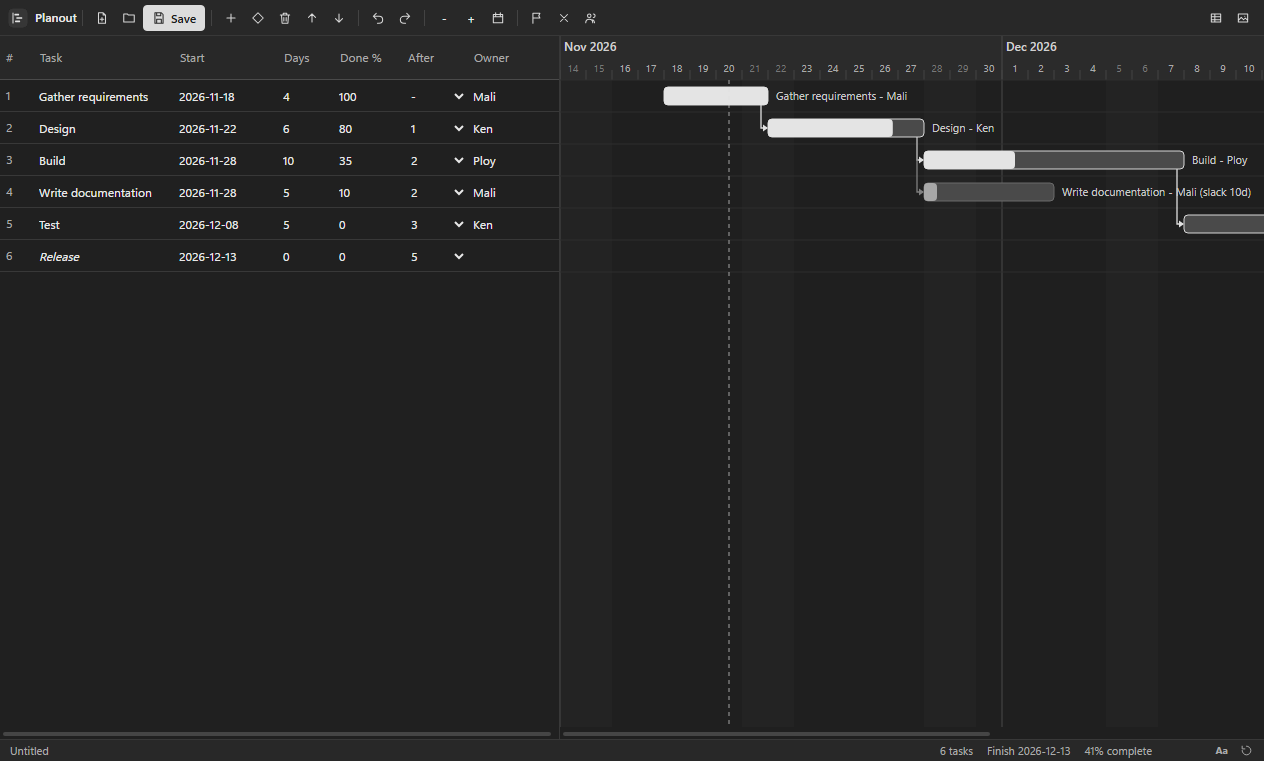
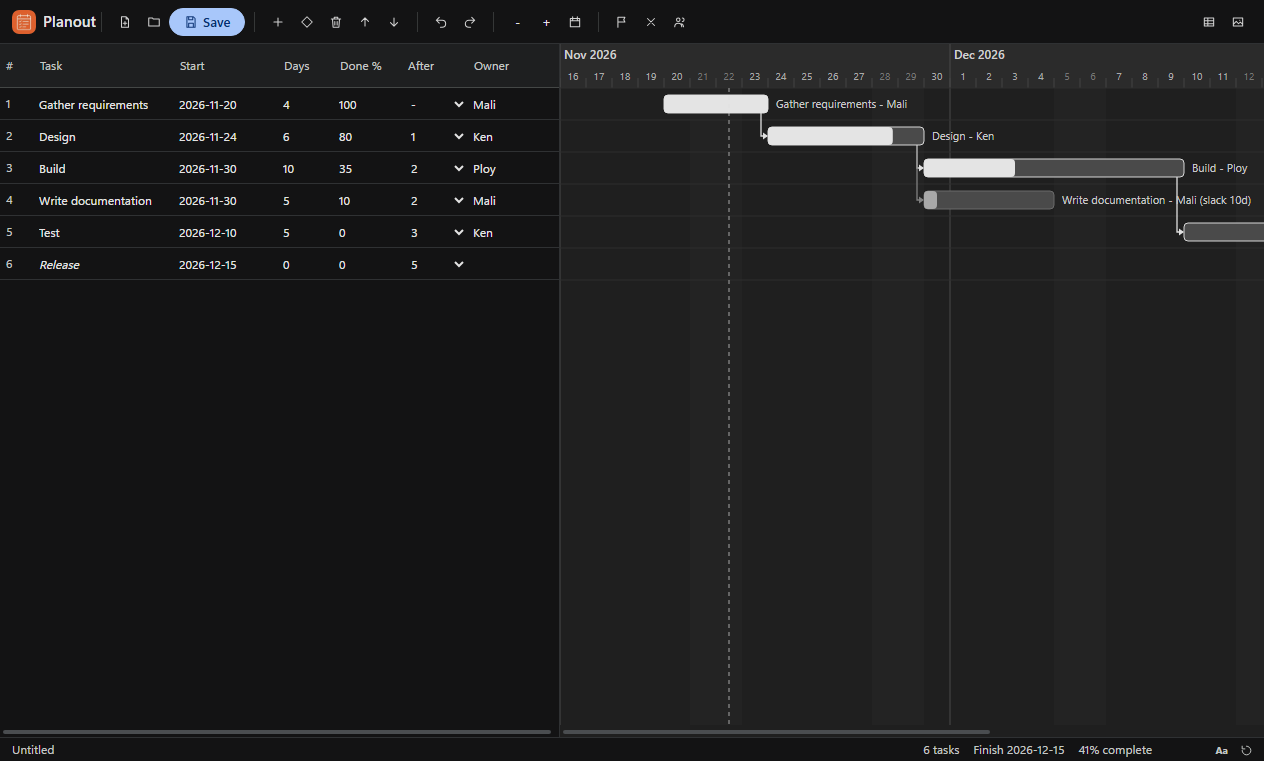
fix: Planout 1.0.14
New Google-style look: charcoal theme, pill buttons, blue accent, colour app logo. Refreshed README and screenshots.

diff --git a/renderer/lookout.css b/renderer/lookout.css
@@ -1,68 +1,69 @@
-/* Lookout gray UI kit v3: compact pro workspace, flat, no hue. Shared by every Lookout app. */
+/* Lookout UI kit v4: Google-style dark (AI Studio / Colab / Gemini): soft surfaces, pill buttons, blue accent. Shared by every Lookout app. */
 :root{
-  --bg:#202020; --bg-2:#282828; --bg-3:#303030; --bg-4:#3a3a3a; --stage:#181818;
-  --line:#383838; --line-2:#4a4a4a; --line-3:#5c5c5c;
-  --text:#e8e8e8; --text-2:#ababab; --text-3:#9a9a9a;
-  --accent:#dcdcdc; --accent-ink:#1b1b1b; --focus:#a0a0a0;
-  --radius:4px; --h:26px; --pad:8px;
-  --font:"Segoe UI Variable Text","Segoe UI",system-ui,-apple-system,sans-serif; --mono:Consolas,"Cascadia Mono",monospace;
+  --bg:#131314; --bg-2:#1e1f20; --bg-3:#282a2c; --bg-4:#333537; --stage:#0e0e0f;
+  --line:#2f3133; --line-2:#444746; --line-3:#5f6368;
+  --text:#e3e3e3; --text-2:#c4c7c5; --text-3:#9aa0a6;
+  --accent:#a8c7fa; --accent-ink:#062e6f; --accent-2:#0b57d0; --accent-soft:#2b3a55; --focus:#a8c7fa;
+  --radius:8px; --h:28px; --pad:10px;
+  --font:"Google Sans Text","Google Sans",Roboto,"Segoe UI Variable Text","Segoe UI",system-ui,-apple-system,sans-serif; --mono:Consolas,"Cascadia Mono",monospace;
 }
 *{box-sizing:border-box;margin:0;padding:0}
-html,body{height:100%;background:var(--bg);color:var(--text);font:12px/1.4 var(--font);overflow:hidden;user-select:none;-webkit-font-smoothing:antialiased}
+html,body{height:100%;background:var(--bg);color:var(--text);font:13px/1.45 var(--font);overflow:hidden;user-select:none;-webkit-font-smoothing:antialiased}
 button,input,select,textarea{font:inherit;color:inherit}
 .app{display:grid;grid-template-rows:auto 1fr auto;height:100vh}
 
 /* ---------- toolbar ---------- */
-.toolbar{display:flex;align-items:center;gap:1px;padding:4px 8px;min-height:36px;background:var(--bg-2);border-bottom:1px solid var(--line);flex-wrap:nowrap;overflow-x:auto;overflow-y:hidden;scrollbar-width:none}
+.toolbar{display:flex;align-items:center;gap:1px;padding:6px 12px;min-height:44px;background:var(--bg);border-bottom:1px solid var(--line);flex-wrap:nowrap;overflow-x:auto;overflow-y:hidden;scrollbar-width:none}
 .toolbar::-webkit-scrollbar{height:0}
 .toolbar>*{flex-shrink:0}
-.toolbar .sep{width:1px;height:16px;align-self:center;background:var(--line-2);margin:0 5px;opacity:.8}
+.toolbar .sep{width:1px;height:20px;align-self:center;background:var(--line-2);margin:0 8px;opacity:.7}
 .toolbar .grow{flex:1 1 auto;min-width:8px}
 .toolbar input[type=text],.toolbar input[type=search]{width:150px}
-.brand{display:flex;align-items:center;gap:7px;padding-right:2px;margin-right:2px;font-weight:600;font-size:12px;color:var(--text)}
-.brand img{width:20px;height:20px;border-radius:5px;display:block}
+.brand{display:flex;align-items:center;gap:7px;padding-right:2px;margin-right:2px;font-weight:500;font-size:15px;letter-spacing:.1px;color:var(--text)}
+.brand img{width:24px;height:24px;border-radius:7px;display:block}
 .brand+.sep{margin-left:0}
 
 /* ---------- buttons ---------- */
-.btn{display:inline-flex;align-items:center;justify-content:center;gap:5px;height:var(--h);padding:0 8px;background:var(--bg-3);border:1px solid var(--line);border-radius:var(--radius);cursor:pointer;white-space:nowrap;line-height:1;transition:background .08s,border-color .08s}
-.btn:hover{background:var(--bg-4);border-color:var(--line-2)}
-.btn:active{background:#262626}
+.btn{display:inline-flex;align-items:center;justify-content:center;gap:5px;height:var(--h);padding:0 14px;background:var(--bg-3);border:1px solid transparent;border-radius:999px;cursor:pointer;white-space:nowrap;line-height:1;transition:background .08s,border-color .08s}
+.btn:hover{background:var(--bg-4)}
+.btn:active{background:#3c3f41}
 .btn:focus-visible,input:focus-visible,select:focus-visible,textarea:focus-visible,[tabindex]:focus-visible{outline:2px solid var(--focus);outline-offset:1px}
-.btn.primary{background:var(--accent);color:var(--accent-ink);border-color:var(--accent);font-weight:600}
-.btn.primary:hover{background:#ececec;border-color:#ececec}
-.btn.on{background:#4a4a4a;border-color:var(--line-3);box-shadow:inset 0 0 0 1px #6a6a6a}
+.btn.primary{background:var(--accent);color:var(--accent-ink);border-color:var(--accent);font-weight:500}
+.btn.primary:hover{background:#c2d7fb;border-color:#c2d7fb;box-shadow:0 1px 3px rgba(0,0,0,.4)}
+.btn.on{background:var(--accent-soft);color:var(--accent);border-color:transparent}
 .btn[disabled]{opacity:.45;pointer-events:none}
-.btn.icon{padding:0;width:var(--h);min-width:var(--h)}
+.btn.icon{padding:0;width:var(--h);min-width:var(--h);border-radius:50%}
 .btn .ic{width:14px;height:14px;flex-shrink:0;display:block;opacity:.92}
 .toolbar .btn:not(.primary):not(.on){background:transparent;border-color:transparent}
-.toolbar .btn:not(.primary):not(.on):hover{background:var(--bg-4);border-color:var(--line-2)}
+.toolbar .btn:not(.primary):not(.on):hover{background:var(--bg-3);border-color:transparent}
 
 /* icon-only toolbar: names live in the tooltip (Aa in the status bar brings the labels back) */
-.toolbar:not(.lbl) .btn:not(.primary):has(> svg.ic),.toolbar.c3 .btn:has(> svg.ic){font-size:0;gap:0;width:var(--h);padding:0}
+.toolbar:not(.lbl) .btn:not(.primary):has(> svg.ic),.toolbar.c3 .btn:has(> svg.ic){font-size:0;gap:0;width:var(--h);padding:0;border-radius:50%}
 .toolbar.c2 .brand span{display:none}
 .toolbar.c2 input[type=text],.toolbar.c2 input[type=search]{width:110px}
 .toolbar.lbl.c1 .btn.minor:not(.primary):has(> svg.ic),.toolbar.lbl.c2 .btn:not(.primary):has(> svg.ic){font-size:0;gap:0;width:var(--h);padding:0}
 
 /* ---------- fields ---------- */
-input[type=text],input[type=number],input[type=search],input[type=date],select,textarea{background:var(--bg);border:1px solid var(--line-2);border-radius:var(--radius);padding:0 7px;height:var(--h);user-select:text;min-width:0;font-size:12px}
+input[type=text],input[type=number],input[type=search],input[type=date],select,textarea{background:var(--bg-3);border:1px solid transparent;border-radius:var(--radius);padding:0 10px;height:var(--h);user-select:text;min-width:0;font-size:13px}
 input[type=number],.frow>input,.field>input{font-variant-numeric:tabular-nums}
 textarea{height:auto;padding:5px 7px;resize:vertical;line-height:1.4}
 select{padding-right:4px;cursor:pointer}
-input:hover,select:hover,textarea:hover{border-color:var(--line-3)}
-input[type=range]{accent-color:#c8c8c8;height:var(--h)}
-input[type=checkbox]{accent-color:#c8c8c8;width:14px;height:14px;cursor:pointer}
-input[type=color]{border:1px solid var(--line-2);background:var(--bg);width:26px;height:var(--h);padding:2px;border-radius:var(--radius)}
-label.field{display:flex;flex-direction:column;gap:3px;color:var(--text-2);font-size:11px}
-label.field>input,label.field>select,label.field>textarea{width:100%;color:var(--text);font-size:12px}
+input:hover,select:hover,textarea:hover{background:var(--bg-4)}
+input[type=text]:focus,input[type=number]:focus,input[type=search]:focus,input[type=date]:focus,select:focus,textarea:focus{outline:none;border-color:var(--accent);background:var(--bg-2)}
+input[type=range]{accent-color:#a8c7fa;height:var(--h)}
+input[type=checkbox]{accent-color:#a8c7fa;width:14px;height:14px;cursor:pointer}
+input[type=color]{border:1px solid var(--line-2);background:var(--bg-3);width:26px;height:var(--h);padding:2px;border-radius:var(--radius)}
+label.field{display:flex;flex-direction:column;gap:3px;color:var(--text-2);font-size:12px}
+label.field>input,label.field>select,label.field>textarea{width:100%;color:var(--text);font-size:13px}
 
 /* ---------- layout ---------- */
 .main{display:flex;min-height:0;min-width:0}
-.sidebar{width:210px;background:var(--bg-2);border-right:1px solid var(--line);overflow:auto;padding:var(--pad);flex-shrink:0;min-width:0}
+.sidebar{width:210px;background:var(--bg);border-right:1px solid var(--line);overflow:auto;padding:var(--pad);flex-shrink:0;min-width:0}
 .sidebar.right{border-right:0;border-left:1px solid var(--line);width:250px}
 .sidebar.collapsed{display:none!important}
-.sidebar h3,.panel-title{font-size:10px;text-transform:uppercase;letter-spacing:.09em;color:var(--text-3);font-weight:600}
+.sidebar h3,.panel-title{font-size:12px;letter-spacing:.2px;color:var(--text-2);font-weight:500}
 .sidebar h3{margin:12px 0 6px}
-.sidebar>h3{display:flex;align-items:center;gap:6px;height:22px;margin:10px calc(var(--pad) * -1) 8px;padding:0 var(--pad);background:var(--bg-3);border-top:1px solid var(--line);border-bottom:1px solid var(--line)}
+.sidebar>h3{display:flex;align-items:center;gap:6px;height:30px;margin:10px calc(var(--pad) * -1) 8px;padding:0 var(--pad);background:var(--bg-2);border-top:1px solid var(--line);border-bottom:1px solid var(--line);color:var(--text)}
 .sidebar>h3:first-child{margin-top:calc(var(--pad) * -1);border-top:0}
 .panel-title{margin:12px 0 6px}
 .sidebar input[type=text],.sidebar input[type=search],.sidebar select,.sidebar textarea{width:100%}
@@ -73,20 +74,20 @@ label.field>input,label.field>select,label.field>textarea{width:100%;color:var(-
 .sidebar .btn{width:auto}
 .sidebar>.btn{width:100%;margin-bottom:5px}
 .stage{flex:1;min-width:0;min-height:0;position:relative;background:var(--stage);overflow:auto}
-.status{display:flex;gap:14px;align-items:center;height:22px;padding:0 10px;background:var(--bg-2);border-top:1px solid var(--line);color:var(--text-2);font-size:11px;white-space:nowrap;overflow:hidden}
+.status{display:flex;gap:14px;align-items:center;height:24px;padding:0 12px;background:var(--bg);border-top:1px solid var(--line);color:var(--text-2);font-size:12px;white-space:nowrap;overflow:hidden}
 .status .grow{flex:1}
 body.hasdock .status{padding-right:112px}
-.wbs{position:fixed;right:6px;bottom:2px;height:18px;display:flex;gap:2px;z-index:8;background:var(--bg-2);padding-left:6px}
+.wbs{position:fixed;right:6px;bottom:2px;height:18px;display:flex;gap:2px;z-index:8;background:var(--bg);padding-left:6px}
 .wbs[hidden]{display:none}
-.wbs .wb{height:18px;min-width:22px;padding:0 4px;display:inline-flex;align-items:center;justify-content:center;font-size:10px;font-weight:700;line-height:1;background:transparent;border:1px solid transparent;border-radius:3px;color:var(--text-2);cursor:pointer}
+.wbs .wb{height:18px;min-width:22px;padding:0 4px;display:inline-flex;align-items:center;justify-content:center;font-size:10px;font-weight:700;line-height:1;background:transparent;border:1px solid transparent;border-radius:6px;color:var(--text-2);cursor:pointer}
 .wbs .wb[hidden]{display:none}
 .wbs .wb svg{width:13px;height:13px;display:block}
-.wbs .wb:hover{background:var(--bg-4);border-color:var(--line-2);color:var(--text)}
-.wbs .wb.on{background:var(--bg-4);border-color:var(--line-3);color:var(--text)}
+.wbs .wb:hover{background:var(--bg-3);color:var(--text)}
+.wbs .wb.on{background:var(--accent-soft);color:var(--accent)}
 .list{display:flex;flex-direction:column;gap:1px}
-.list .item{padding:3px 6px;border-radius:var(--radius);cursor:pointer;border:1px solid transparent;display:flex;gap:6px;align-items:center;min-height:26px}
+.list .item{padding:3px 10px;border-radius:999px;cursor:pointer;border:1px solid transparent;display:flex;gap:6px;align-items:center;min-height:26px}
 .list .item:hover{background:var(--bg-3)}
-.list .item.sel{background:var(--bg-4);border-color:var(--line-2)}
+.list .item.sel{background:var(--accent-soft);color:var(--accent);border-color:transparent}
 .row{display:flex;gap:5px;align-items:center}
 .grow{flex:1 1 auto;min-width:0}
 .brow{display:grid;grid-template-columns:1fr 1fr;gap:5px;margin-bottom:5px}
@@ -99,17 +100,17 @@ body.hasdock .status{padding-right:112px}
 .sidebar .swatches{margin-bottom:8px}
 .list .item .btn{height:22px!important;width:24px!important;padding:0!important;font-size:0!important;gap:0;background:transparent;border-color:transparent;opacity:.55}
 .list .item:hover .btn,.list .item.sel .btn{opacity:1}
-.list .item .btn:hover{background:var(--bg-4);border-color:var(--line-2)}
+.list .item .btn:hover{background:var(--bg-4)}
 .col{display:flex;flex-direction:column;gap:5px}
 .muted{color:var(--text-2)}
 .empty{position:absolute;inset:0;display:flex;flex-direction:column;align-items:center;justify-content:center;gap:10px;color:var(--text-3);text-align:center;padding:24px}
-.empty .big{font-size:16px;color:var(--text-2);font-weight:600}
+.empty .big{font-size:20px;color:var(--text);font-weight:400}
 
 /* panel grip: drag to resize, double-click to collapse or restore */
 .grip{position:relative;flex:0 0 5px;width:5px;margin:0 -3px 0 -2px;z-index:6;cursor:col-resize;touch-action:none}
 .grip::after{content:"";position:absolute;top:0;bottom:0;left:2px;width:1px;background:transparent;transition:background .1s}
-.grip:hover::after,.grip.drag::after{background:var(--line-3);width:2px;left:1px}
-.grip.collapsed{flex:0 0 8px;width:8px;margin:0;background:var(--bg-2);border-left:1px solid var(--line);border-right:1px solid var(--line)}
+.grip:hover::after,.grip.drag::after{background:var(--accent);width:2px;left:1px}
+.grip.collapsed{flex:0 0 8px;width:8px;margin:0;background:var(--bg);border-left:1px solid var(--line);border-right:1px solid var(--line)}
 .grip.collapsed::after{left:3px;top:calc(50% - 14px);bottom:auto;height:28px;width:2px;background:var(--line-3);border-radius:2px}
 .grip.collapsed:hover{background:var(--bg-3)}
 body.gripping{cursor:col-resize}
@@ -117,30 +118,30 @@ body.gripping *{cursor:col-resize!important;user-select:none!important}
 
 /* ---------- overlays ---------- */
 .modal-back{position:fixed;inset:0;background:rgba(0,0,0,.6);display:flex;align-items:center;justify-content:center;z-index:50}
-.modal{background:var(--bg-2);border:1px solid var(--line-2);border-radius:8px;min-width:340px;max-width:80vw;max-height:85vh;overflow:auto;padding:16px;display:flex;flex-direction:column;gap:12px;box-shadow:0 18px 50px rgba(0,0,0,.5)}
-.modal h2{font-size:14px;font-weight:600}
-.toast{position:fixed;left:50%;bottom:34px;transform:translateX(-50%);background:var(--bg-4);border:1px solid var(--line-3);padding:7px 14px;border-radius:6px;z-index:60;box-shadow:0 8px 24px rgba(0,0,0,.4)}
-.progress{height:5px;background:var(--bg);border:1px solid var(--line);border-radius:4px;overflow:hidden}
+.modal{background:var(--bg-2);border:0;border-radius:24px;min-width:360px;max-width:80vw;max-height:85vh;overflow:auto;padding:24px;display:flex;flex-direction:column;gap:14px;box-shadow:0 8px 32px rgba(0,0,0,.6)}
+.modal h2{font-size:20px;font-weight:400}
+.toast{position:fixed;left:50%;bottom:34px;transform:translateX(-50%);background:#e3e3e3;color:#1f1f1f;border:0;padding:10px 18px;border-radius:8px;z-index:60;box-shadow:0 8px 24px rgba(0,0,0,.4)}
+.progress{height:6px;background:var(--bg-3);border:0;border-radius:999px;overflow:hidden}
 .progress>i,.progress>div{display:block;height:100%;background:var(--accent);width:0}
 
 /* ---------- tables ---------- */
 table.grid{border-collapse:separate;border-spacing:0;width:100%}
 table.grid th,table.grid td{border-bottom:1px solid var(--line);padding:0 10px;height:30px;text-align:left;vertical-align:middle}
-table.grid th{background:var(--bg-2);color:var(--text-2);font-weight:600;font-size:11px;position:sticky;top:0;z-index:1;height:26px}
-table.grid tbody tr:hover td{background:#242424}
-table.grid tr.sel td{background:#323232}
+table.grid th{background:var(--bg-2);color:var(--text-2);font-weight:500;font-size:12px;position:sticky;top:0;z-index:1;height:26px}
+table.grid tbody tr:hover td{background:var(--bg-2)}
+table.grid tr.sel td{background:var(--accent-soft)}
 table.grid tbody tr{cursor:default}
 table.grid td .btn{height:22px;margin-left:6px;vertical-align:middle}
 table.grid td{white-space:nowrap}
 
 /* ---------- misc ---------- */
 ::-webkit-scrollbar{width:10px;height:10px}
-::-webkit-scrollbar-thumb{background:#454545;border:3px solid transparent;background-clip:padding-box;border-radius:8px}
-::-webkit-scrollbar-thumb:hover{background:#5a5a5a;background-clip:padding-box;border:3px solid transparent}
+::-webkit-scrollbar-thumb{background:#4a4d50;border:3px solid transparent;background-clip:padding-box;border-radius:8px}
+::-webkit-scrollbar-thumb:hover{background:#6b6f73;background-clip:padding-box;border:3px solid transparent}
 ::-webkit-scrollbar-track,::-webkit-scrollbar-corner{background:transparent}
 .swatches{display:flex;flex-wrap:wrap;gap:5px}
-.swatches button{width:20px;height:20px;border:1px solid var(--line-3);border-radius:4px;cursor:pointer;padding:0}
+.swatches button{width:22px;height:22px;border:1px solid var(--line-3);border-radius:50%;cursor:pointer;padding:0}
 .swatches button.on{outline:2px solid var(--accent);outline-offset:2px}
-kbd{font-family:var(--mono);font-size:10px;background:var(--bg-3);border:1px solid var(--line-2);border-bottom-width:2px;border-radius:3px;padding:0 4px}
+kbd{font-family:var(--mono);font-size:10px;background:var(--bg-3);border:1px solid var(--line-2);border-bottom-width:2px;border-radius:4px;padding:0 5px}
 
 input::placeholder,textarea::placeholder{color:var(--text-3);opacity:1}

diff --git a/README.md b/README.md
@@ -1,8 +1,10 @@
-<p align="center"><img src="screenshots/banner.png" alt="Planout" width="100%"></p>
+<p align="center"><img src="screenshots/logo.png" alt="Planout" width="128"></p>
 
-<p align="center"><b>Plans and Gantt timelines</b><br>Version 1.0.2 for Windows · Free · Offline · No account</p>
+<h1 align="center">Planout</h1>
 
-<p align="center"><a href="https://github.com/plawanpawin-byte/planout/releases/latest"><b>Download Planout</b></a> · <a href="https://github.com/plawanpawin-byte/Lookout">All Lookout apps</a></p>
+<p align="center"><b>Plans and Gantt timelines</b><br>Version 1.0.14 for Windows · Free · Offline · No account</p>
+
+<p align="center"><a href="https://github.com/plawanpawin-byte/planout/releases/latest"><b>Download Planout</b></a> · <a href="https://github.com/plawanpawin-byte/lookout-launcher">Lookout launcher</a> · <a href="https://github.com/plawanpawin-byte/Lookout">All Lookout apps</a></p>
 
 ---
 
@@ -12,11 +14,51 @@ Planout turns a list of tasks into a project plan. Give each task a start date, 
 
 ![Planout](screenshots/01-gantt-plan.png)
 
-**On this page:** [Screenshots](#see-it-in-action) · [Interface](#the-interface) · [Features](#everything-it-can-do) · [How to use it](#how-to-use-it) · [Shortcuts](#keyboard-shortcuts) · [Formats](#files-and-formats) · [Privacy](#private-by-design) · [Install](#install) · [Questions](#questions)
+**On this page:** [In plain words](#in-plain-words) · [Who it is for](#who-it-is-for) · [Try it in 3 steps](#try-it-in-3-steps) · [Screenshots](#see-it-in-action) · [Features](#everything-it-can-do) · [How to use it](#how-to-use-it) · [Privacy](#private-by-design) · [Install](#install) · [Questions](#questions)
 
-## What is new in 1.0.2
+## In plain words
 
-A refreshed interface: every toolbar button now has a clear line icon, the app's mark sits at the top left, controls share one height and spacing, panels line up in tidy grids, and the toolbar keeps every button reachable on smaller windows by switching less important buttons to icons.
+Planout is a **project planner**. You write a list of tasks, give each one a start date, a length in days and an owner, and Planout draws them as horizontal bars on a **Gantt timeline**, the standard chart that project managers use to see what happens when.
+
+The useful part is **dependencies**. If task B cannot start until task A is finished, you link them. When A slips by two days, B and everything after it move automatically. You can also add **milestones** (important dates such as "Launch"), see a summary of the whole plan, and export the timeline as a picture or the task list as a CSV file that opens in Excel.
+
+**Not for:** Planout plans tasks and dates. It does not track budgets, hours worked or file attachments, and it does not sync between people.
+
+## Who it is for
+
+- **Project managers** and team leads who need a simple plan without a heavy tool.
+- **Small businesses** scheduling a launch, an event or a renovation.
+- **Students** planning a group project or a thesis.
+
+## Try it in 3 steps
+
+1. Add three tasks. Give them lengths and an owner.
+2. Link the second task to the first as a dependency and watch the bar move.
+3. Export the timeline image and share it with your team.
+
+## What is new in 1.0.14
+
+A new look inspired by Google's own tools (AI Studio, Colab, Gemini): a calm dark charcoal theme, rounded pill buttons, a soft blue accent and roomier spacing. The app icon is now a colour logo so you can find Planout at a glance in the Start menu and in the Lookout launcher. All screenshots below were taken again with the new look.
+
+## In plain words
+
+Planout is a **project planner**. You write a list of tasks, give each one a start date, a length in days and an owner, and Planout draws them as horizontal bars on a **Gantt timeline**, the standard chart that project managers use to see what happens when.
+
+The useful part is **dependencies**. If task B cannot start until task A is finished, you link them. When A slips by two days, B and everything after it move automatically. You can also add **milestones** (important dates such as "Launch"), see a summary of the whole plan, and export the timeline as a picture or the task list as a CSV file that opens in Excel.
+
+**Not for:** Planout plans tasks and dates. It does not track budgets, hours worked or file attachments, and it does not sync between people.
+
+## Who it is for
+
+- **Project managers** and team leads who need a simple plan without a heavy tool.
+- **Small businesses** scheduling a launch, an event or a renovation.
+- **Students** planning a group project or a thesis.
+
+## Try it in 3 steps
+
+1. Add three tasks. Give them lengths and an owner.
+2. Link the second task to the first as a dependency and watch the bar move.
+3. Export the timeline image and share it with your team.
 
 ## See it in action
 
@@ -116,7 +158,7 @@ Saves .planout files. Exports PNG and CSV. Dates are written year-month-day, for
 
 ## Install
 
-1. Open the [latest release](https://github.com/plawanpawin-byte/planout/releases/latest) and download the file named **Planout-Setup-** followed by the version number and **.exe**. You can also install it from the [Lookout launcher](https://github.com/${OWNER}/lookout-launcher), which keeps it up to date.
+1. Open the [latest release](https://github.com/plawanpawin-byte/planout/releases/latest) and download the file named **Planout-Setup-** followed by the version number and **.exe**. You can also install it from the [Lookout launcher](https://github.com/plawanpawin-byte/lookout-launcher), which keeps it up to date.
 2. Run the installer. It installs just for you, so it does not ask for administrator rights.
 3. Windows may show a blue **Windows protected your PC** screen because these installers are not signed with a paid certificate. Click **More info**, then **Run anyway**.
 4. Open Planout from the Start menu.
@@ -131,18 +173,40 @@ Not yet. Durations are counted in calendar days.
 **Can two people edit one plan?**  
 Share the .planout file. There is no live co-editing because nothing goes online.
 
+**What is a Gantt chart?**  
+A chart with tasks listed down the side and a calendar across the top. Each task is a bar from its start to its end.
+
+**What happens when I change a date?**  
+Any task that depends on it moves too, so the whole plan stays consistent.
+
+**Can I open the plan in Excel?**  
+Yes. Export the CSV and open it in Excel or any spreadsheet program.
+
+**What is a Gantt chart?**  
+A chart with tasks listed down the side and a calendar across the top. Each task is a bar from its start to its end.
+
+**What happens when I change a date?**  
+Any task that depends on it moves too, so the whole plan stays consistent.
+
+**Can I open the plan in Excel?**  
+Yes. Export the CSV and open it in Excel or any spreadsheet program.
+
 ## About Lookout
 
-Planout belongs to the **[Lookout](https://github.com/plawanpawin-byte/Lookout)** family: ten small, private Windows apps for documents and media, all with the same calm grey look and the same promise that your files stay yours. Install and update them together with the [Lookout launcher](https://github.com/plawanpawin-byte/lookout-launcher).
+Planout is part of **[Lookout](https://github.com/plawanpawin-byte/Lookout)**: ten small, private Windows apps for documents and media that share one look and one promise, that your files stay on your computer. Install and update them together with the [Lookout launcher](https://github.com/plawanpawin-byte/lookout-launcher).
 
-- **[Pageout](https://github.com/plawanpawin-byte/pageout)**: read, annotate and sign pdfs
-- **[Chartout](https://github.com/plawanpawin-byte/chartout)**: flowcharts and diagrams
-- **[Branchout](https://github.com/plawanpawin-byte/branchout)**: mind maps and outlines
-- **[Frameout](https://github.com/plawanpawin-byte/frameout)**: screen design and prototypes
-- **[Cutout](https://github.com/plawanpawin-byte/cutout)**: video editing on a timeline
-- **[Shiftout](https://github.com/plawanpawin-byte/shiftout)**: convert and compress media
-- **[Castout](https://github.com/plawanpawin-byte/castout)**: record your screen
-- **[Mendout](https://github.com/plawanpawin-byte/mendout)**: repair damaged media
-- **[Tuneout](https://github.com/plawanpawin-byte/tuneout)**: record and edit audio
+| | App | What it is for | Code |
+| --- | --- | --- | --- |
+| <img src="https://raw.githubusercontent.com/plawanpawin-byte/lookout-launcher/main/build/icon.png" width="32" alt="Lookout"> | **Lookout** | Install, open and update all the apps below | [GitHub](https://github.com/plawanpawin-byte/lookout-launcher) |
+| <img src="https://raw.githubusercontent.com/plawanpawin-byte/pageout/main/build/icon.png" width="32" alt="Pageout"> | **Pageout** | Read, annotate and sign PDFs | [GitHub](https://github.com/plawanpawin-byte/pageout) |
+| <img src="https://raw.githubusercontent.com/plawanpawin-byte/chartout/main/build/icon.png" width="32" alt="Chartout"> | **Chartout** | Flowcharts, org charts and diagrams | [GitHub](https://github.com/plawanpawin-byte/chartout) |
+| <img src="https://raw.githubusercontent.com/plawanpawin-byte/branchout/main/build/icon.png" width="32" alt="Branchout"> | **Branchout** | Mind maps and outlines | [GitHub](https://github.com/plawanpawin-byte/branchout) |
+| <img src="https://raw.githubusercontent.com/plawanpawin-byte/planout/main/build/icon.png" width="32" alt="Planout"> | **Planout** | Project plans and Gantt timelines | [GitHub](https://github.com/plawanpawin-byte/planout) |
+| <img src="https://raw.githubusercontent.com/plawanpawin-byte/frameout/main/build/icon.png" width="32" alt="Frameout"> | **Frameout** | App and web screen design with click-through prototypes | [GitHub](https://github.com/plawanpawin-byte/frameout) |
+| <img src="https://raw.githubusercontent.com/plawanpawin-byte/cutout/main/build/icon.png" width="32" alt="Cutout"> | **Cutout** | Video editing on a timeline | [GitHub](https://github.com/plawanpawin-byte/cutout) |
+| <img src="https://raw.githubusercontent.com/plawanpawin-byte/shiftout/main/build/icon.png" width="32" alt="Shiftout"> | **Shiftout** | Convert and compress video and audio, make GIFs | [GitHub](https://github.com/plawanpawin-byte/shiftout) |
+| <img src="https://raw.githubusercontent.com/plawanpawin-byte/castout/main/build/icon.png" width="32" alt="Castout"> | **Castout** | Record your screen | [GitHub](https://github.com/plawanpawin-byte/castout) |
+| <img src="https://raw.githubusercontent.com/plawanpawin-byte/mendout/main/build/icon.png" width="32" alt="Mendout"> | **Mendout** | Check and repair damaged video, audio, pictures and PDFs | [GitHub](https://github.com/plawanpawin-byte/mendout) |
+| <img src="https://raw.githubusercontent.com/plawanpawin-byte/tuneout/main/build/icon.png" width="32" alt="Tuneout"> | **Tuneout** | Record and edit audio | [GitHub](https://github.com/plawanpawin-byte/tuneout) |
 
 Released under the MIT License.
